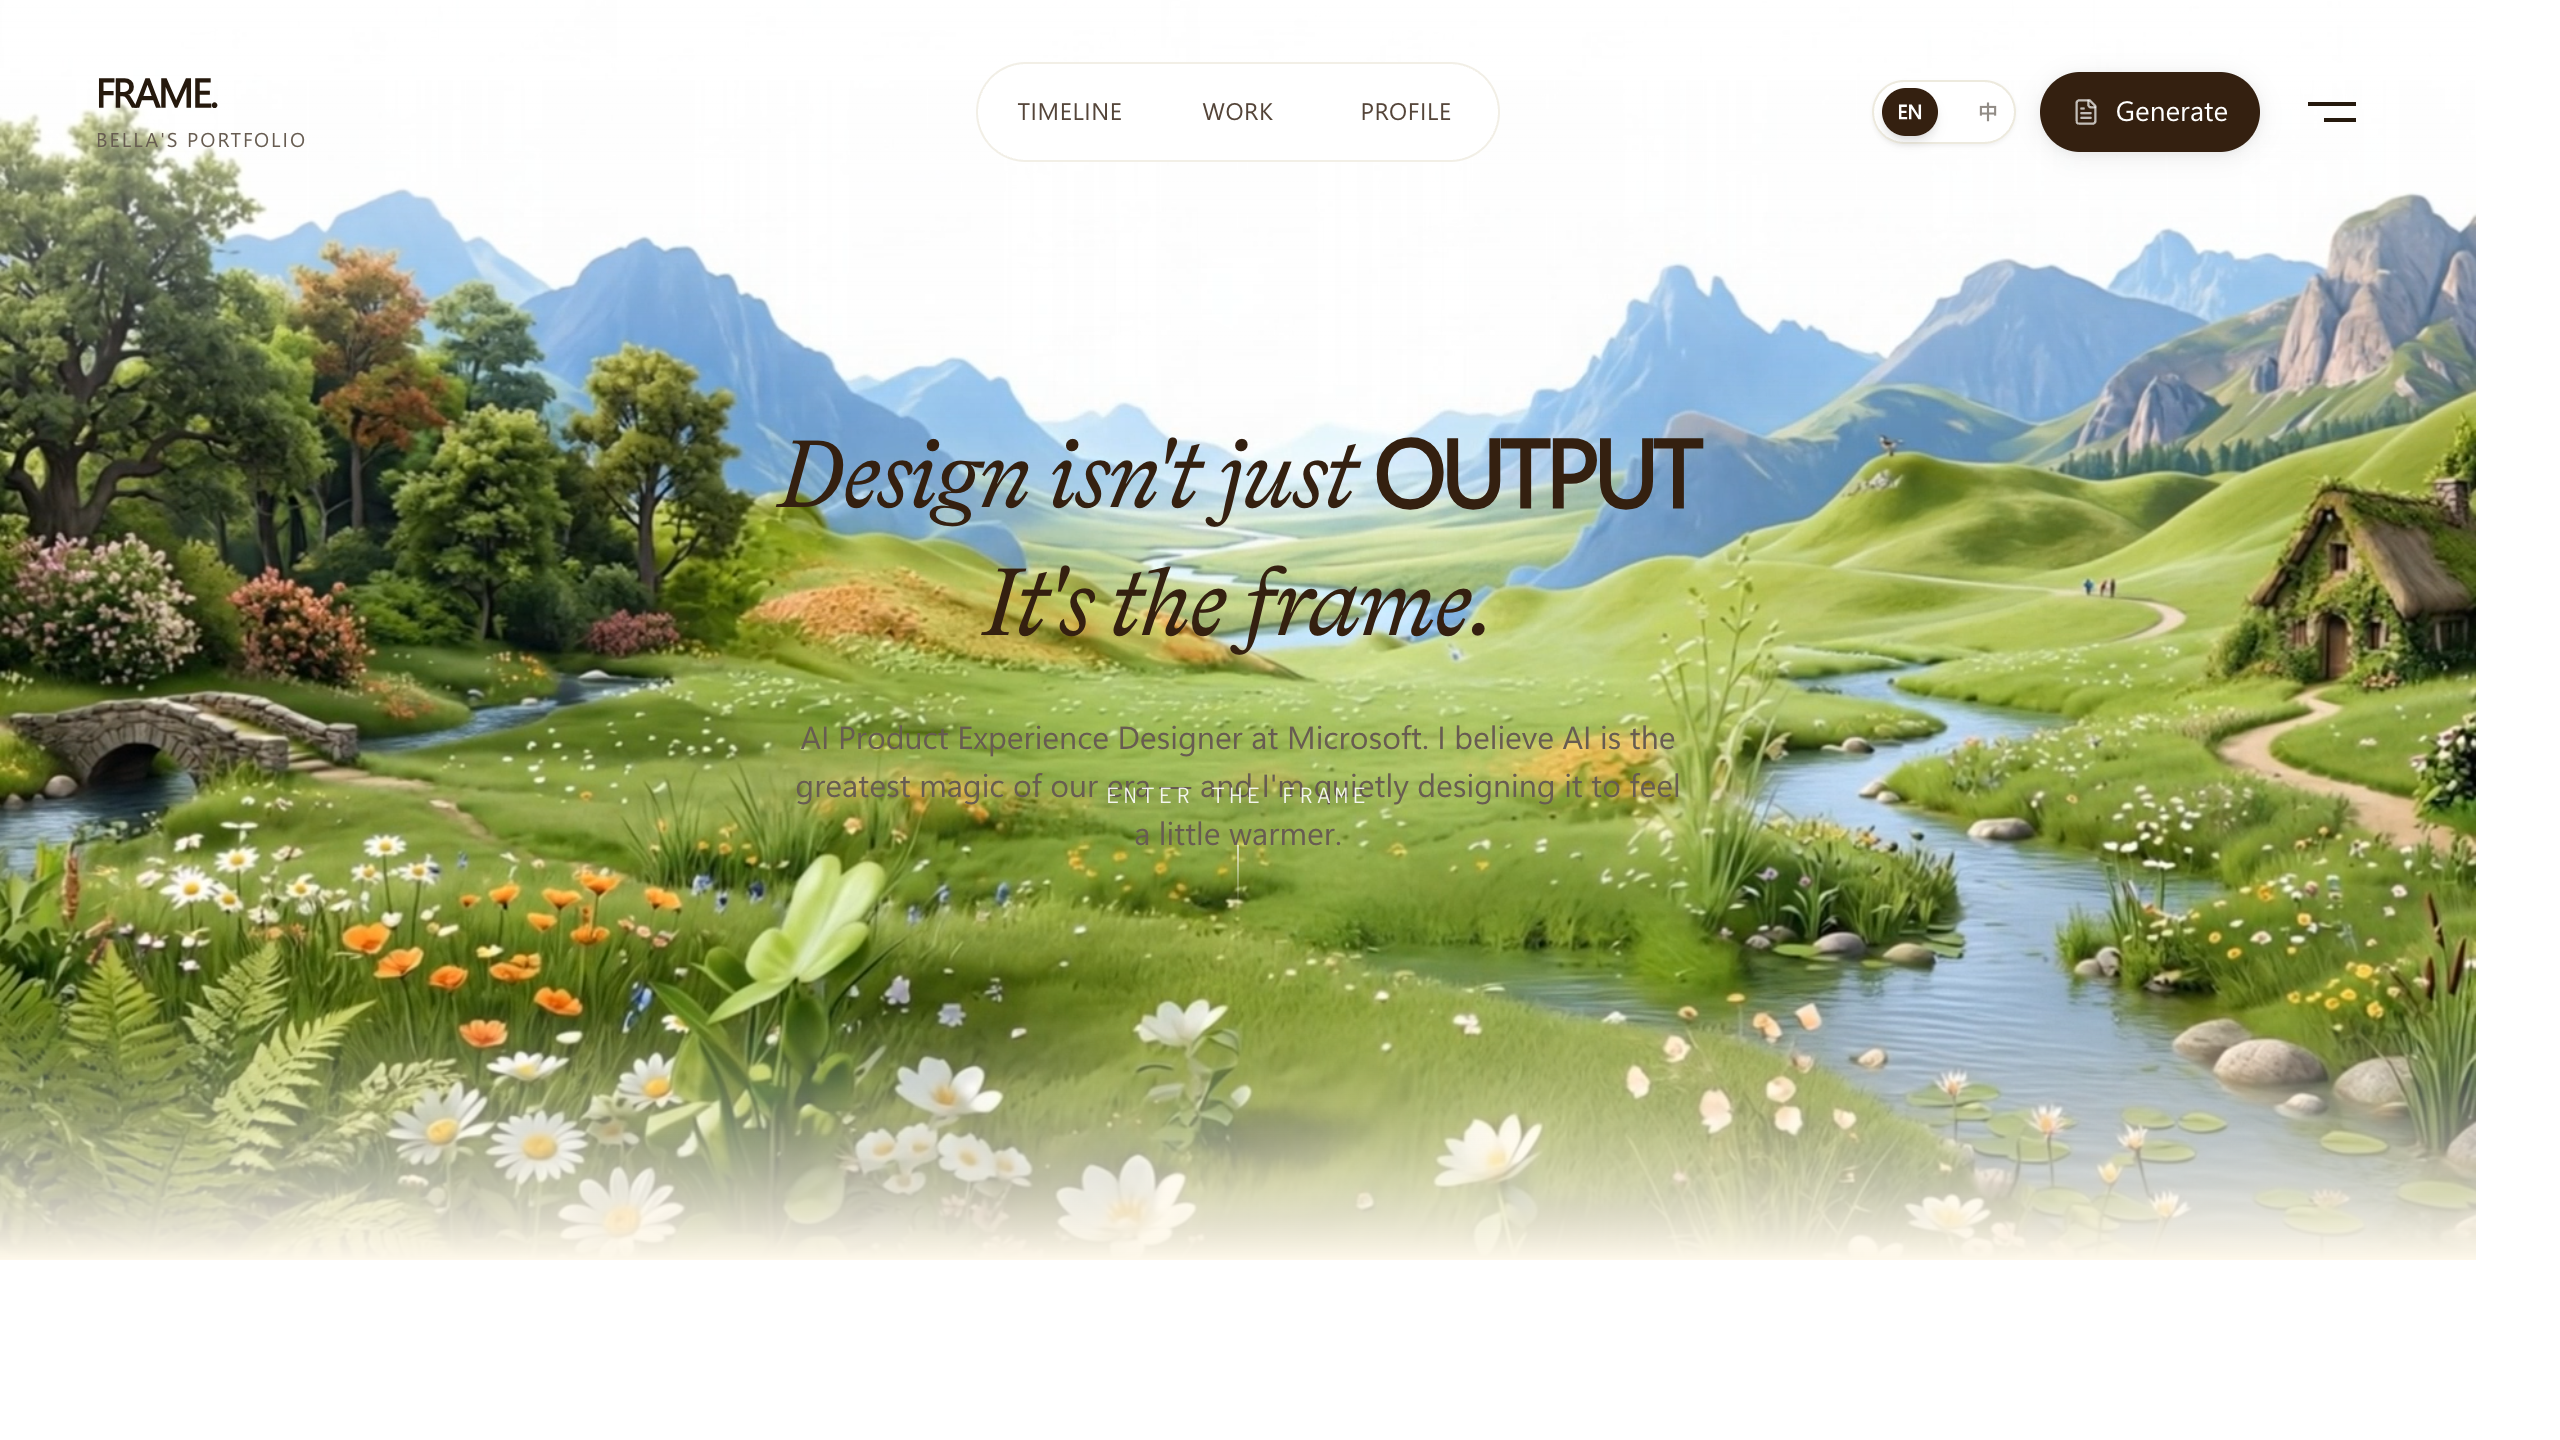
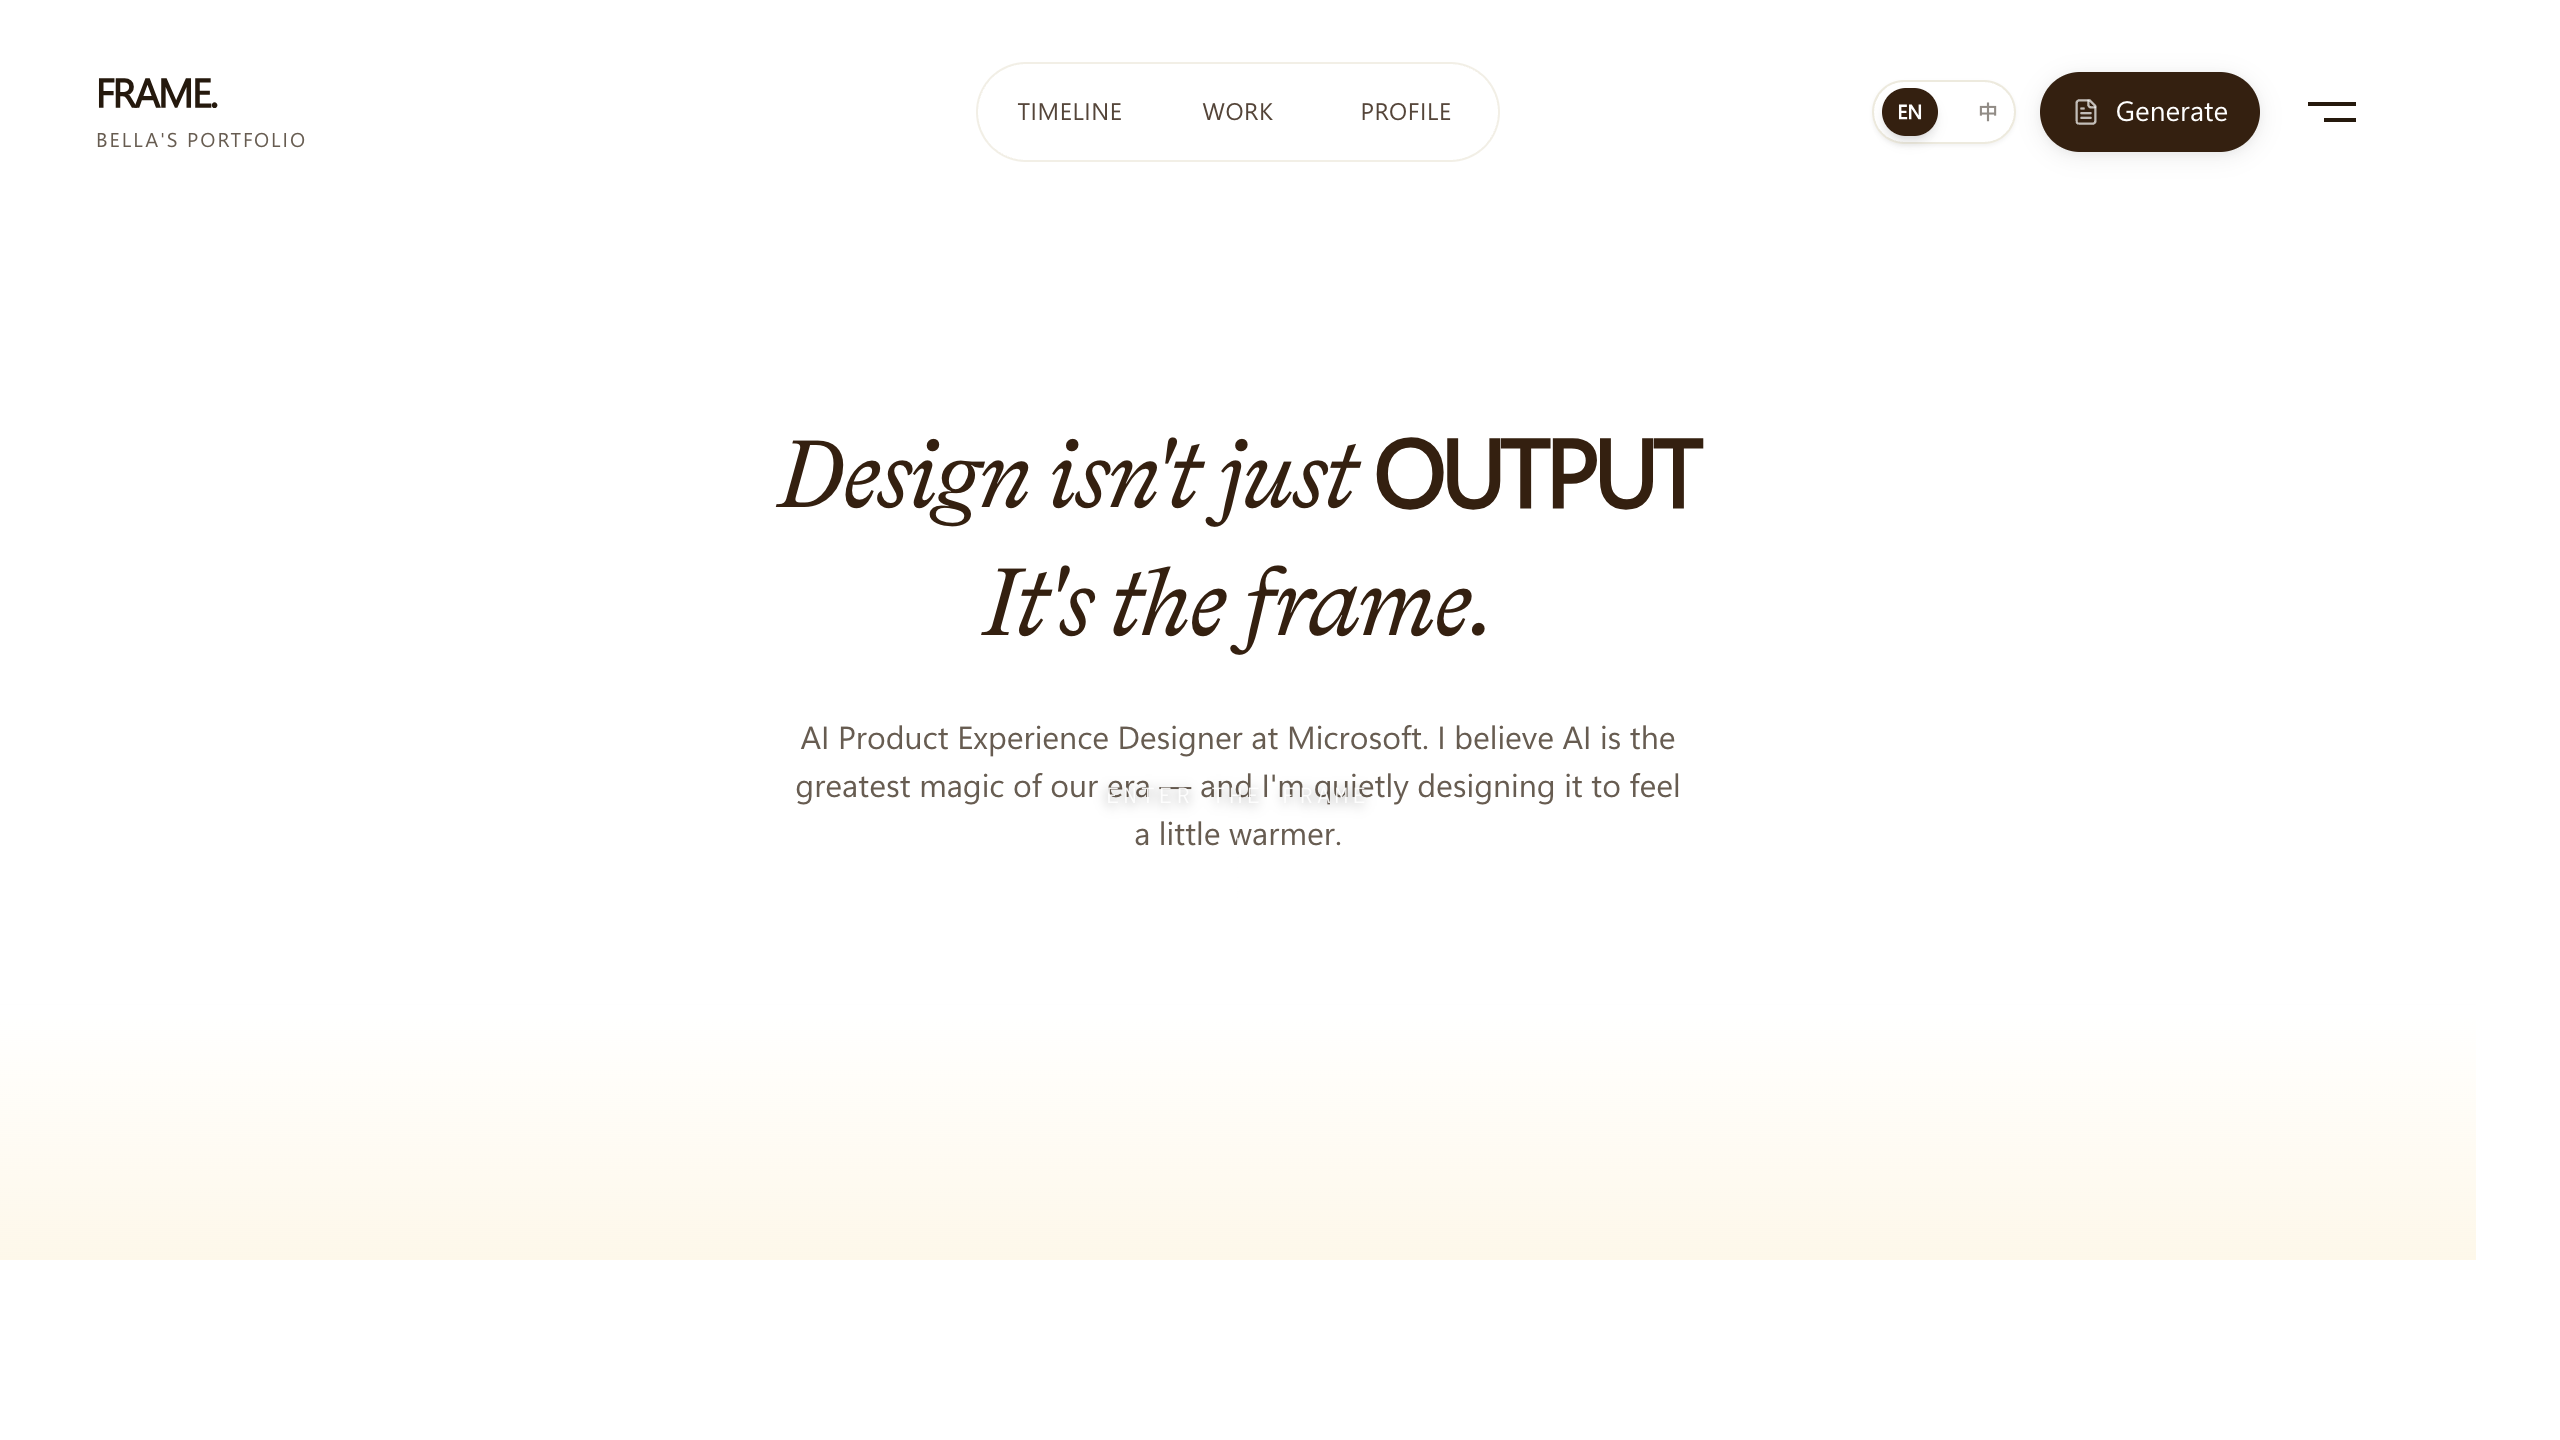
Update README: better preview image and full link

diff --git a/README.md b/README.md
@@ -1,12 +1,8 @@
 # Frame — Personal Portfolio
 
-<div align="center">
-<img src="public/og-preview.png" alt="Frame Portfolio Preview" width="100%" />
-</div>
+![Frame Portfolio Preview](public/og-preview.png)
 
-<p align="center">
-  <a href="https://albellatross.github.io/frame/">🔗 Live Site</a>
-</p>
+**Live Site → [https://albellatross.github.io/frame/](https://albellatross.github.io/frame/)**
 
 A creative portfolio site showcasing design work, IP universe, AI-generated art, and project case studies.
 
